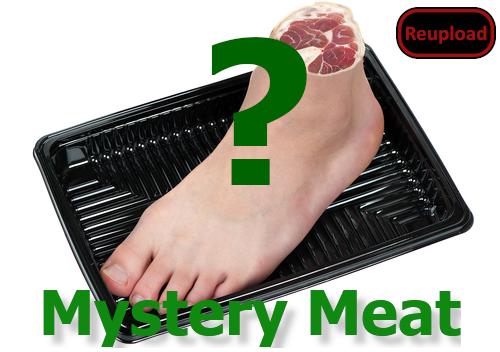
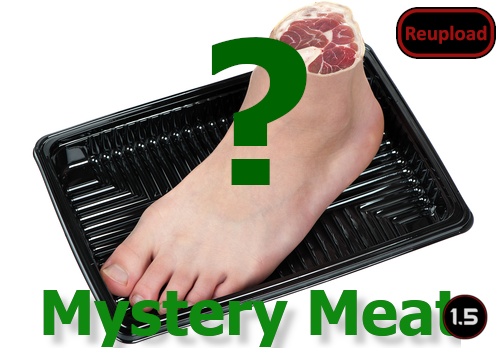
Mod updated for 1.5 and passed autotests

Changed region(s): [[0.87, 0.8125, 0.99, 0.9688]]

diff --git a/README.md b/README.md
@@ -35,13 +35,13 @@ This mod is intended for players who prefer a "soylent green" approach to colony
 
 -  See if the the error persists if you just have this mod and its requirements active.
 -  If not, try adding your other mods until it happens again.
--  Post your error-log using https://steamcommunity.com/workshop/filedetails/?id=818773962]HugsLib and command Ctrl+F12
+-  Post your error-log using https://steamcommunity.com/workshop/filedetails/?id=818773962]HugsLib or the standalone https://steamcommunity.com/sharedfiles/filedetails/?id=2873415404]Uploader and command Ctrl+F12
 -  For best support, please use the Discord-channel for error-reporting.
 -  Do not report errors by making a discussion-thread, I get no notification of that.
 -  If you have the solution for a problem, please post it to the GitHub repository.
+-  Use https://github.com/RimSort/RimSort/releases/latest]RimSort to sort your mods
 
 
 
+https://steamcommunity.com/sharedfiles/filedetails/changelog/2102395259]![Image](https://img.shields.io/github/v/release/emipa606/MysteryMeat?label=latest%20version&style=plastic&color=9f1111&labelColor=black)
 
-
-https://steamcommunity.com/sharedfiles/filedetails/changelog/2102395259]Last updated 2023-01-10
